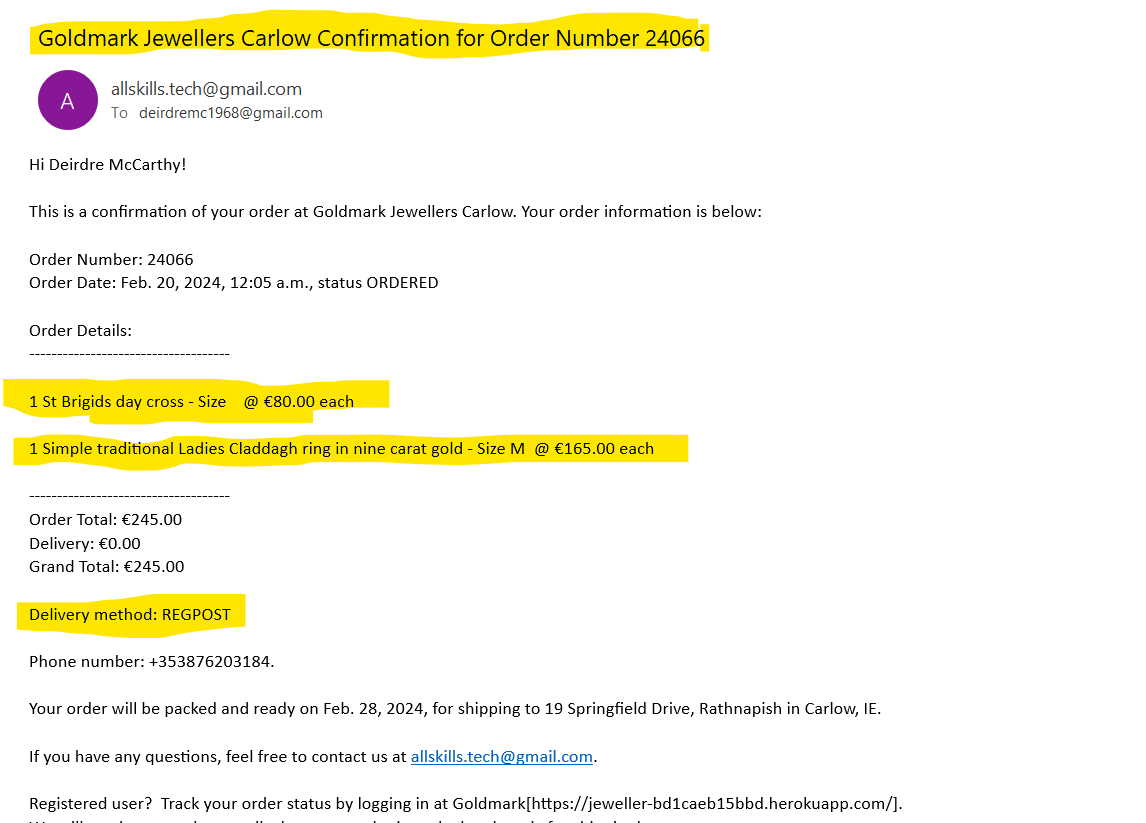
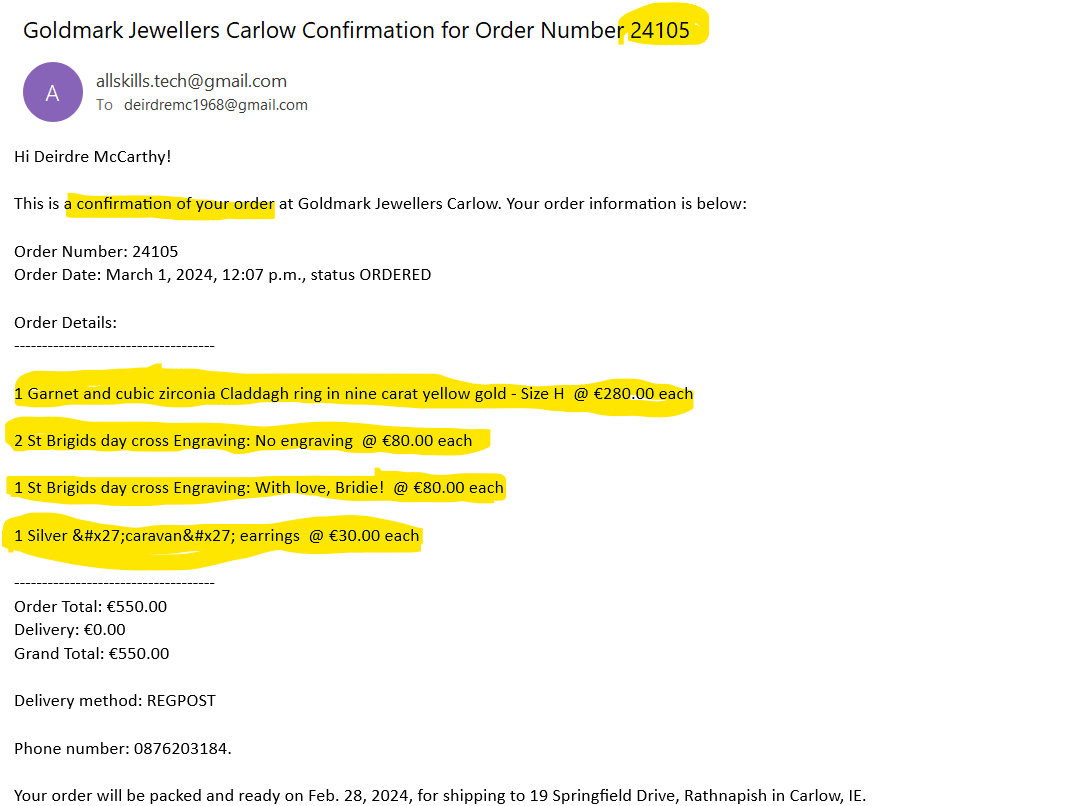
docs: Update features section of readme #68

diff --git a/README_Features.md b/README_Features.md
@@ -3,20 +3,20 @@
 
 ## Features
 -----------
-F01 Authentication and Login
+F01 Authentication and Login (DONE)
 F02 SECURITY
-F03 RESPONSIVENESS
+F03 RESPONSIVENESS (DONE)
 F04 NAVIGATION
 F05 CLEAR SITE PURPOSE/ EASE OF USE
-F06 USER FEEDBACK - TOASTS, EMAILS, SCREEN PROGRESSION
+F06 USER FEEDBACK - TOASTS, EMAILS, SCREEN PROGRESSION (DONE)
 F07 - VIEW / SEARCH PRODUCTS
 F08 - FILTER PRODUCTS
 F09 - SORT PRODUCTS
 F10 - PRODUCT DETAILS
-F11 - PRODUCT REVIEWS
+F11 - PRODUCT REVIEWS (DONE)
 F12 - ABOUT PAGE/ USER FEEDBACK FORM
-F13 - CREATE SHOPPING BASKET
-F14 - CREATE ORDER FROM SHOPPING BASKET, including choosing delivery method
+F13 - CREATE SHOPPING BASKET - (INCLUDING SIZING AND PERSONALISATION) (DONE)
+F14 - CREATE ORDER FROM SHOPPING BASKET (INCLUDING DELIVERY METHOD)
 F15 - STRIPE PAYMENTS (WITH RESILIIENCE)
 F16 - ORDER LIFECYCLE TRACKING, including ANPOST Tracking
 F17 - PRODUCT LEAD TIMES
@@ -207,17 +207,19 @@ Forms are used to gather information throughout the Jeweller site, examples are:
 In this situation, error messages are specifically targeted at particular fields: the field is highlighted and the user is notified of the error.
 <details><summary>Subscribe to newsletter</summary><img src="./docs/readme_images/f06-subscribe-to-mailing-list-error.png"></details>
 
+#### Screen progression
+Users of Jeweller site will be involved in multi-step processes; Toasts are used to keep the user informed about where they are in the process, and what the next step might be. 
+
 #### Feedback Emails:
 Emails (customised for the jeweller site) are generated in certain work processes:
 * User registration and authentication (customised allauth templates)
 * User newsletter signup (Mailchimp)
 * Order lifecycle tracking (python sendmail using customised templates) - sent when order is created, packed, shipped, received/collected
-* Contact form - confirmation of enquiry logged
-
+* Contact form - confirmation of enquiry logged (generated using emailjs)
 
 <details><summary>Password reset email</summary><img src="./docs/readme_images/f06-password-reset-email.png"></details>
 <details><summary>Newsletter signup - confirmation email</summary><img src="./docs/readme_images/f06-newsletter-signup-email.png"></details>
-<details><summary>Order creation - email sent</summary><img src="./docs/readme_images/f06-order-update-email-p1.png"></details>
+<details><summary>Order creation - email sent</summary><img src="./docs/readme_images/f06-order-confirmation-email-p1.png"></details>
 <details><summary>Order packed - email sent</summary><img src="./docs/readme_images/f06-order-update-email-p2.png"></details>
 <details><summary>Order shipped - email sent</summary><img src="./docs/readme_images/f06-order-update-email-p3.png"></details>
 <details><summary>Order received - email sent</summary><img src="./docs/readme_images/f06-order-update-email-p4.png"></details>
@@ -225,18 +227,7 @@ Emails (customised for the jeweller site) are generated in certain work processe
 <details><summary>Contact/Enquiry form - confirmation of receipt</summary><img src="./docs/readme_images/f06-order-confirmation-email.png"></details>
 
 
-
-
-
-* SO_04 As site owner I want to provide straightforward, intuitive, consistent website navigation, (using graphical navigation where possible, even where the destination leads to text-based informataion)
-* SO_06 As site owner I want to provide a website, which meets current programming, performance and accessibility standards (html, css, javascript, responsive, accessibility, performance)
-* FTU_03 As a first time user I would like to be able to easily navigate the site and quickly learn its functionality 
-* FTU_06 As a first-time user I want clear, timely and unambiguous feedback and interaction
-* FTU_07 As a first-time user I expect links and functions that work as expected
-
-#### Screen progression
-* Some more text here perhaps?
-
+The design of user feedback addresses user stories FTU_01,02 site navigation, FTU_03 Feedback at each step, FTU_21: email/text notifying me of my order number and lead time; FTU_22: enquiry form; FTU_26/RU_08 newsletter; RU_06 notification of order status;  RU_08 newsletter; RU_09 contact preferences; SO_01, 02 Error handling and feedback; SO_06 Order tracking; SO_12,13 Marketing promotions, SO_15 Extend walkthrough functionality for Jeweller site; SO_16 Employ marketing techniques.
 
 
 F07 - VIEW / SEARCH PRODUCTS
@@ -334,7 +325,36 @@ From a site owner's perspective this contributes to user stories SO_03 using sit
 * FTU_04 As a first time user I would like to understand the acountability and trustability of information presented on the site - maybe via an 
 about page which clearly identifies information souces, information gathering/harvesting processes including moderation (flowchart would be good here).
 
-F13 CREATE SHOPPING BASKET
+### F13 CREATE SHOPPING BASKET (INCLUDING SIZING AND PERSONALISATION)
+Jewellery site users can create a shopping basket.  The starting point is always a product detail page; from there the user has a quantity input, and an 'add to basket' button.
+The user can assemble products, with personalisation, into a shopping basket.
+The product detail page is always used as the 'launch' to add an item to the shopping basket.
+
+<details><summary>Add to basket - standard item</summary><img src="./docs/readme_images/f13-basket-add-p1.png"></details>
+Once added, the basket quantity for this item is maintained per item, ie the item will only appear once in the basket, and any subsequent additions will increase the quantity of this basket line.
+
+If the item is a ring, then the ring size must be entered here, values can be chosen from a drop down
+<details><summary>Add to basket - standard item</summary><img src="./docs/readme_images/f13-basket-add-p2.png"></details>
+This defaults to 'Ring size M'
+Once added, the basket quantity is seen at item/ size level, so the item could appear multiple times in the basket, and any subsequent additions will create a new line if a different size, or will increase qty on this line if the item/size combination already exists in the basket.
+
+If the item is engraveable, then the user can enter text to be engraved on the item.
+This defaults to 'No engraving'.
+Note that ring and engraving are mutually exclusive as per the Jeweller shop owner's request (specialist equipment needed to engrave inside rings).
+<details><summary>Add to basket - standard item</summary><img src="./docs/readme_images/f13-basket-add-p3.png"></details>
+
+It is expected that many users will raise an order for one or two items, but larger baskets can be created with a combination of items as needed:
+<details><summary>Basket with combination of items</summary><img src="./docs/readme_images/f13-basket-p4.png"></details>
+
+Once created, the shopping basket can be maintained, with quantities per line increased/decreased/removed:
+<details><summary>Basket with combination of items</summary><img src="./docs/readme_images/f13-shopping-basket-decrease-qty.png"></details>
+
+And items can be removed from the shopping basket
+<details><summary>Remove item from shopping basket</summary><img src="./docs/readme_images/f13-shopping-basket-remove-product-p1.png"></details>
+
+
+This meets user requirements FTU_01-05; FTU_15,16 Maintain Shopping basket; SO_04,05,15 (extend the walkthorough shopping basket models to include personalisation)
+
 
 F14 CREATE ORDER FROM SHOPPING BASKET, including choosing delivery method
 
@@ -452,22 +472,6 @@ ability for a registered user to add an article to their reading list:
 * SO_11 As site owner, I would like to encourague users to engage with each article's content, by providing suggested actions and next steps for the user to take 
 * RU_01 As a returning user I want to mark information I find useful so I can quickly access it again (favourites)
 * RU_02 As a returning user I want to create a user profile so that I can personalise my site experience (profile image, bookmarks, actions/tasks)
-
-### F13 Personal Tasks - MyPlanner
-The MyPlanner dashboard gives access to the user's personal Task List.  
-This dashboard shows the number of tasks, amongst other information.
-
-From where personal tasks may be created, edited, or deleted.
-The users reading list can also be shown.
-As can the comments they've made on various articles.
-![My Planner](./django_financial_planner/docs/readme_images/f13-personalised-view-myplanner.png?raw=true "MyPlanner")
-
-Progressive reveal is used to hide information until the user requests it.
-Possible to maintain and edit personal tasks from here.
-
-* SO_12 As site owner, I would like to provide a personal database where users can store their own actions and record their progress in following the steps
-* RU_01 As a returning user I want to mark information I find useful so I can quickly access it again (favourites)
-* RU_02 As a returning user I want to create a user profile so that I can personalise my site experience (profile image, bookmarks, actions)
 
 ### F14 My Tasks
 
